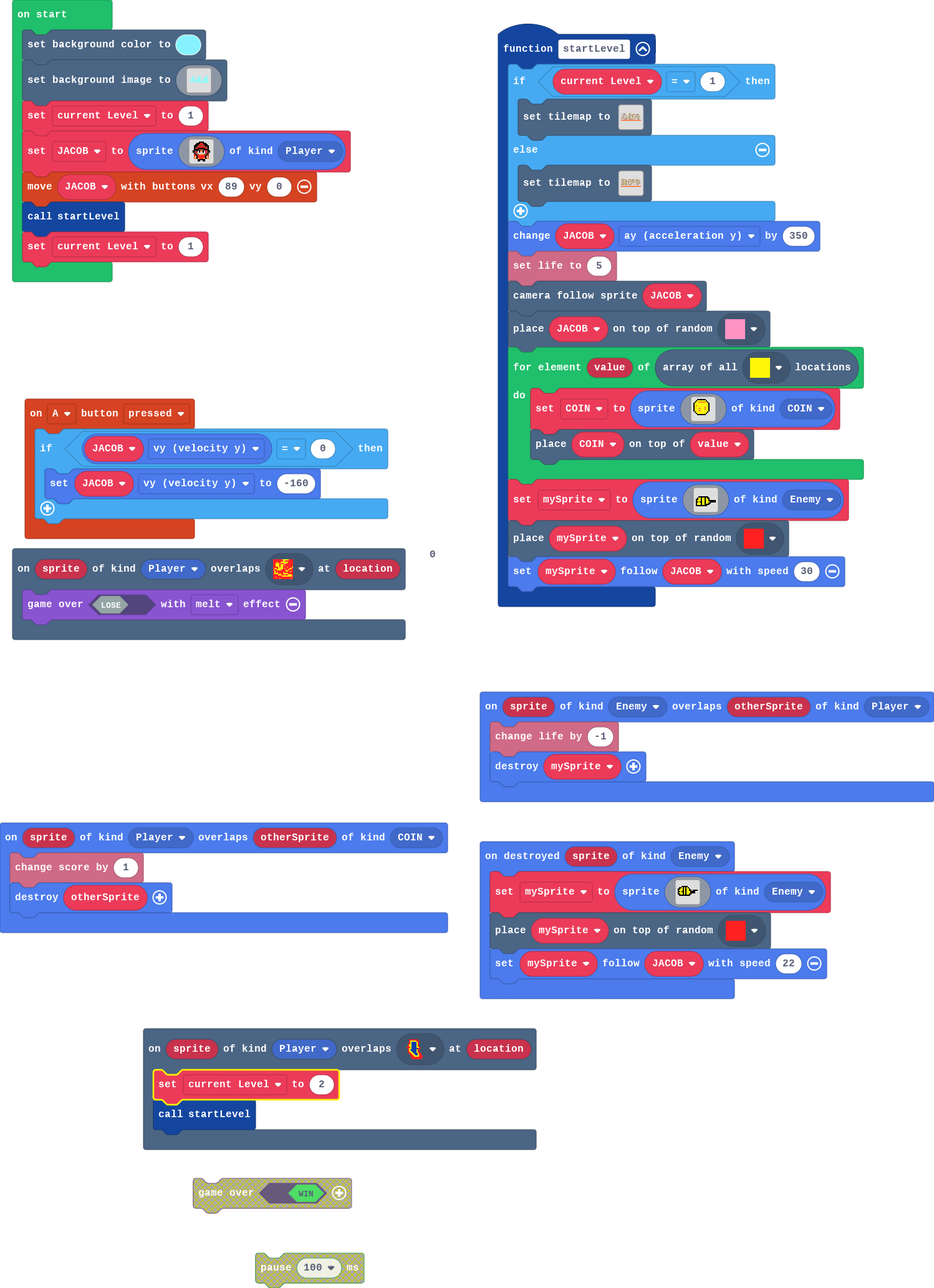
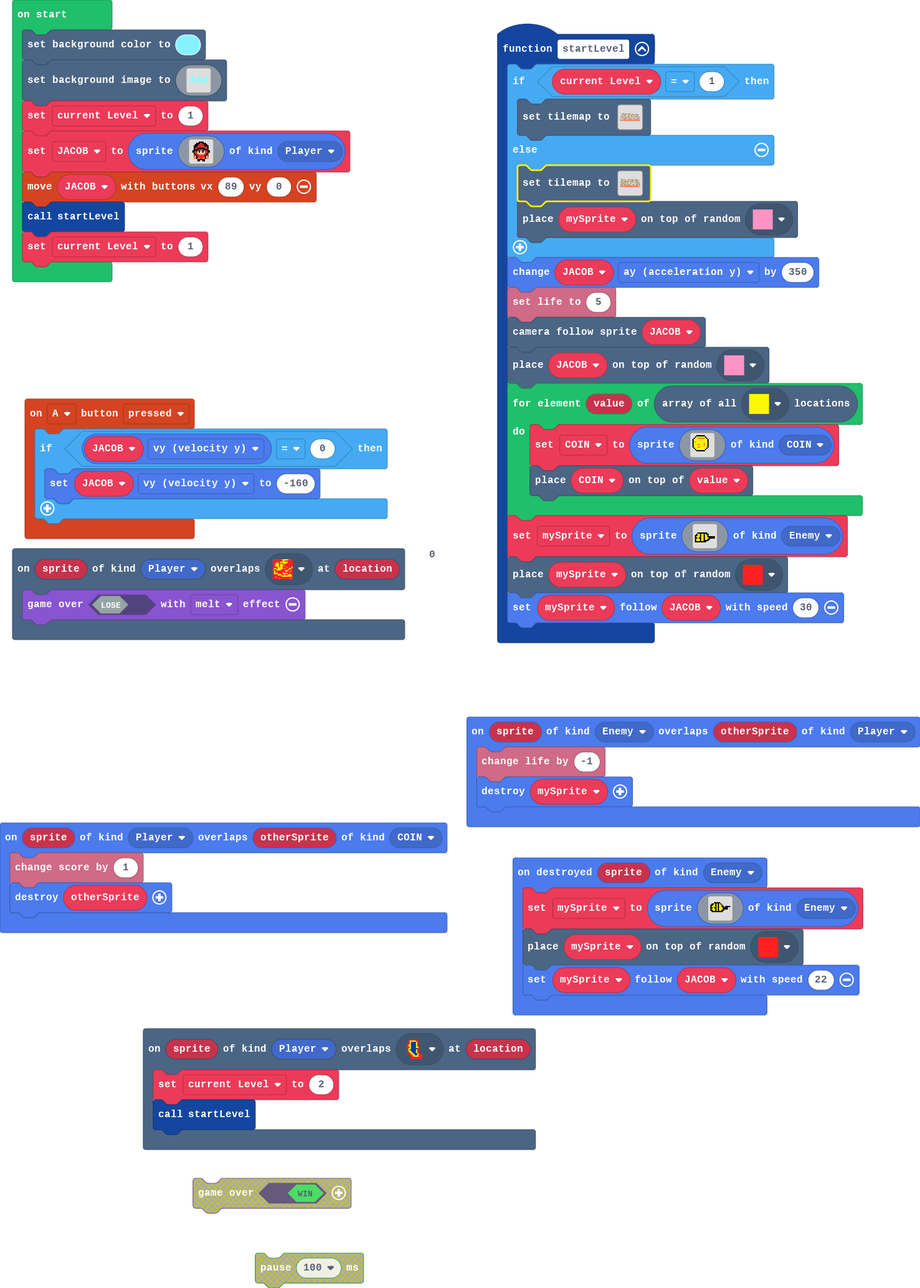
Update main.blocks, main.ts, tilemap.g.jres, tilemap.g.ts

diff --git a/main.ts b/main.ts
@@ -48,6 +48,7 @@ function startLevel () {
         tiles.setTilemap(tilemap`level4`)
     } else {
         tiles.setTilemap(tilemap`level 2`)
+        tiles.placeOnRandomTile(mySprite, assets.tile`myTile6`)
     }
     JACOB.ay += 350
     info.setLife(5)
@@ -118,72 +119,72 @@ scene.setBackgroundImage(img`
     ................................................................................................................................................................
     ................................................................................................................................................................
     ................................................................................................................................................................
+    .........................................................................................9......................................................................
+    .....................................9..................................................999................................................9.9999...............
+    ....................................99.................................................99999..............................................999...................
+    ....................................99..............................................999999999.............................................999999................
+    ..................................99999.............................................9999999999...........................................9999999................
+    ................................9999999............................................9999999999............................................9999999................
+    ..............................99999999999.........................................99999999999...........................................99999999................
+    .............................e.9999999999.......................................9999999999999..........................................9999999999...............
+    ............................9.999999999999.....................................9999999999999...........................................99999999999..............
+    ...........................9999999999999999...................................99999999999999..........................................999999999999..............
+    ..........................99999999999999999...................................99999999999999.........................................99999999999999.............
+    .........................9999999999999999999................................9999999999999999........................................9999999999999999............
+    ........................99.99999999999999999................................9999999999999999........................................9999999999999999............
+    ........................99999999999999999999................................9999999999999999.......................................999999999999999999...........
+    .......................99.999999999999999999...............................999999999999999999.....................................9999999999999999999...........
+    .......................9.999999999999999999................................9999999999999999.9....................................999999999999999999999..........
+    .........................9999999999999999999...............................9999999999999999999.................................99999999999999999999999..........
+    ........................999999999999999999999..............................9999999999999999999................................9999999999999999999999999.........
+    .......................9999999999999999999999............................9999999999999999999999..........................99..99999999999999999999999999.........
+    .......................99999999999999999999999..........................99999999999999999999999.........................9999999999999999999999999999999.........
+    .......................99999999999999999999999..........................99999999999999999999999........................999999999999999999999999999999999........
+    ......................999999999999999999999999.........................9999999999999999999999999.......................999999999999999999999999999999999........
+    ......................999999999999999999999999.........................9999999999999999999999999......................9999999999999999999999999999999999........
+    .....................9999999999999999999999999......................9.99999999999999999999999999.....................99999999999999999999999999999999999........
+    .....................99999999999999999999999999....................99999999999999999999999999999....................999999999999999999999999999999999999........
+    ....................999999999999999999999999999...................99999999999999999999999999999.9..................9999999999999999999999999999999999999........
+    ...................9999999999999999999999999999...................9999999999999999999999999999999..................9999999999999999999999999999999999999........
+    ..................99999999999999999999999999999...................9999999999999999999999999999999.................99999999999999999999999999999999999999........
+    .................999999999999999999999999999999..................99999999999999999999999999999999................999999999999999999999999999999999999999........
+    ................9999999999999999999999999999999................999999999999999999999999999999999.................999999999999999999999999999999999999999........
+    ...............99999999999999999999999999999999...............9999999999999999999999999999999999................9999999999999999999999999999999999999999........
+    ...............99999999999999999999999999999999..............99999999999999999999999999999999999................9999999999999999999999999999999999999999........
+    ...............99999999999999999999999999999999..............99999999999999999999999999999999999................999999999999999999999999999999999999999.........
+    ...............99999999999999999999999999999999..............99999999999999999999999999999999999...............99999999999999999999999999999999999999999........
+    ..............999999999999999999999999999999999.............99999999999999999999999999999999999................99999999999999999999999999999999999999999........
+    ..............9999999999999999999999999999999999...........999999999999999999999999999999999999...............999999999999999999999999999999999999999999........
+    ..............9999999999999999999999999999999999...........999999999999999999999999999999999999...............999999999999999999999999999999999999999999........
+    .............99999999999999999999999999999999999..........9999999999999999999999999999999999999...............999999999999999999999999999999999999999999........
+    .............99999999999999999999999999999999999.........99999999999999999999999999999999999999..............9999999999999999999999999999999999999999999........
+    ............999999999999999999999999999999999999........999999999999999999999999999999999999999..............99999999999999999999999999999999999999999999.......
+    ............999999999999999999999999999999999999.......9999999999999999999999999999999999999999..............99999999999999999999999999999999999999999999.......
+    ..........99999999999999999999999999999999999999......99999999999999999999999999999999999999999.............999999999999999999999999999999999999999999999.......
+    ..........99999999999999999999999999999999999999.......999999999999999999999999999999999999999..............9999999999999999999999999999999999999999999999......
+    .........999999999999999999999999999999999999999.......999999999999999999999999999999999999999.............99999999999999999999999999999999999999999999999......
+    .........999999999999999999999999999999999999999.......99999999999999999999999999999999999999999...........99999999999999999999999999999999999999999999999......
+    .........999999999999999999999999999999999999999......999999999999999999999999999999999999999999..........999999999999999999999999999999999999999999999999......
+    ........9999999999999999999999999999999999999999.....9999999999999999999999999999999999999999999..........999999999999999999999999999999999999999999999999......
+    .......999999999999999999999999999999999999999999....9999999999999999999999999999999999999999999..........999999999999999999999999999999999999999999999999......
+    ........99999999999999999999999999999999999999999...999999999999999999999999999999999999999999999........99999999999999999999999999999999999999999999999999.....
+    ........999999999999999999999999999999999999999999..9999999999999999999999999999999999999999999999......999999999999999999999999999999999999999999999999999.....
+    ........999999999999999999999999999999999999999999999999999999999999999999999999999999999999999999.....99999999999999999999999999999999999999999999999999999....
+    .......99999999999999999999999999999999999999999999999999999999999999999999999999999999999999999999....99999999999999999999999999999999999999999999999999999....
+    .........99999999999999999999999999999999999999999999999999999999999999999999999999999999999999999.9...999999999999999999999999999999999999999999999999999999...
+    .........9999999999999999999999999999999999999999999999999999999999999999999999999999999999999999999..9999999999999999999999999999999999999999999999999999999...
+    .................99999999999999999999999999999999999999999999999999999999999999999999999999999999999999999999999999999999999999999999999999999999999999999999...
+    ..............................99999......99999999999999999999999999999999999999999999999999999999999999999999999999999999999999999999999999999999999999999999...
+    ...................................................99999999999999999999999999999999999999999999999999999999999999999999999999999999999999999999999999999999999..
+    ....................................................................99999999999999999999999999999999999999999..99999999999999999999999999999999999999999999999..
+    .......................................................................99999999999......99999999999999..........9999999999999999999999999999999999999.99999999..
+    ..................................................................................................................999.99999999999999999999999999999.............
+    .........................................................................................................................9999...999999999.99999999..99999999....
+    ...............................................................................................................................999.................9............
     ................................................................................................................................................................
-    ...........................................................................................................................................9.9999...............
-    ........................................................................................999...............................................999...................
-    ....................................99.................................................999................................................999999................
-    ...................................9.9................................................9999.9.............................................9999999................
-    ...................................99.9............................................9999999999............................................9999999................
-    ..................................999999..........................................9.9999.99.............................................99999999................
-    .................................99.9999.........................................9999999.99............................................9999999999...............
-    .................................999999999......................................9.999999.99............................................99999999999..............
-    ................................9999999999.....................................9..999999999...........................................99.9999999.9..............
-    ...............................99999999999.....................................9.9999999999...........................................999999999.999.............
-    ..............................999999999999....................................9.9.9999999999.........................................99.999999999999............
-    .............................99999.9999999....................................9.999999999999........................................9999999999.99999............
-    .............................99999.99999999..................................9.9.99999.99999.......................................99999999999.999999...........
-    ............................999999999999999.................................9.9999999999999.9.....................................999999999999.999999...........
-    ...........................9999999999999999.................................9999999.9999999.9....................................9999999.9999999999999..........
-    ...........................9.999999999999999................................99.999999999999.9..................................99999999999999999999999..........
-    ..........................999999999999999999.................................99999999.9999.9.9................................9999999999999.99999999999.........
-    ........................9.999999999999999999................................9999999.99999999.9...............................9.999999999999999999999999.........
-    ........................99999999999999999999.............................9999999999999999999.9.............................99.9999999999999999999999999.........
-    .......................99999999999999999999.9............................9999999999999999999.9............................9.99999999999999999999999999.9........
-    .......................9999999999999999999999............................999999999999999999999..........................999.9999999999.999999999999999.9........
-    .......................9999999999999999999999...........................999999999999999999999.9........................9.99999999999999999999999999999.9........
-    ......................99999.99999999999999999.........................9999.999999999999999999.9.......................9.999999999999999999999999999999.9........
-    ......................99999999999999999999999........................999999999999999999999999.9......................9.9999999999999999999999999999999.9........
-    .....................9.9999999999999999999999......................99.99999999999999999999999.9.....................99.99999999999999.999999999999999999........
-    ...................99999999999999999999999999......................99999999999999999999999999.9.....................999999999999999999999999999999999999........
-    ...................9.999999999999999999999999.....................99999.99999999999999999999999....................9999999999999999999999999999999999999........
-    ..................99.999999999999999999999.99....................999999999999999999999999999999...................9999999999.999999999999999999999.99999........
-    ..................9999999999999999999999999999...................999999999.99999999999999999999...................99999999999999999.99999999999999999999........
-    .................99999999999999999999999999999..................9.99999999999999999999999999999..................999999999999999999999999999999999999999........
-    .................99999999999999999999999999999.................99.99999999999999999999999999999.................9.99999999999999999999999999999999999999........
-    ................999999999999999999999999999999................9.9999999999999999999999999999999.................9.9999999.99999999999999999999999999999.........
-    ................999999999999999999999999.99999...............999999.999999999999999999999999999................99999999999999999999999999999999999999999........
-    ...............9999999999999999999999999.99999...............9.99999999999999999999999999999999................999.9999999999999.99999999999999999999999........
-    ...............99999999999.99999999999999999999.............999999.9999999999999999999999999999................99.99999999999999999999999999999999999999........
-    ..............999999999999999999999999999999999.............99999999999999999999999999999999999...............999999999999999999999999999999999999999999........
-    ..............9.9999999999999999999999999999999............999999999999999999999999999999999999...............999999999999999999999999999999999999999999........
-    .............9999999.99999999999999999999999999...........9999999999999999999999999999999999999...............999999999999999999999999999999999999999999........
-    .............999999999999999.999999999999999999...........9999999999999999999999999999999999999..............99999999999999999999.99999999999999999999999.......
-    ............9999999999999999.999999999999999999...........999999999999999999999999999999999999...............999999999.9999999999999999999999999999999999.......
-    ..........999999999.9999999999999999999999999999.........9999999999999999999999999999999999999..............9.9999999999999999999999999999999999999999999.......
-    ..........99999999999999999999999999999999999999........99999999999999999999999999999999999999..............999999999999999999999999999999999999999999999.......
-    .........999999999.99999999999999999999999999999.......99999999.999999999999999999999999999999.............9999999999999999999999999999999999999999999999.......
-    .........999999999999999999999999999999999999999.......99999.99999999999999.99.999999999999999.............99999999999999999999999999999999999999999999999......
-    .........9999999.9999999999999999999999999999999......9.999999.999999999999999999999999.9999999...........9999999999999999999.9999999999999999999999999999......
-    ........9.99999999.9.999999999999999999999999999......9999999999999.99999.999999999999999999999...........999999999999999999999999999999999999.99999999999......
-    .......9999.99999999999.9999.9999999999999999999.....999999999999999999999999999999999999999999...........9999999999.99999999999999999999999999999999999.9......
-    .........9999999999999.9999999999999999999999999.....99999999999999999999999999999999999999999.9.........999999999999999999999999999999999999.9999999999999.....
-    .........99999999999999.9.99999999999999.99999999....99999999999999999999999999999999999999999.9.........999999.9999.99999999.99999999999999999999999999999.....
-    .........9999999999999.999999999999999999999999999.9.999999999..9.9.99999999999999999999999999..9.......9999999999999999999999999999999999999999999999999999....
-    .......9999999999999999999999999999999999999999999999999999999999999999999999999999999999999999.9......999999999.9999999999999999999999999999999999999999999....
-    ..........999..9999999999999999999999999999999999999.9999999999999999999999999999999999999999999.9.....999999999999999999999999999999999999999999999999999999...
-    .............99999999999999999999999999999999999999999999999999999999999999999999999999999999999..9...9999999999999999999999999999999999999999999999999999999...
-    ..................99999999999999.9999999999999999999999999999.9999999..99999999999999999999999999999..9999999.99999999999999999999999999999999999999999999999...
-    ..............................999999999999.9999999999999999999999999999999999999999999999999999999999999999999999..999999999999999999999999999999999999999999...
-    ....................................999999..9999999999..9.9999999999999999999999999999999999999999999999999999999999999999999999999999999999999999999999999999..
-    ..........................................99999999999...99..99999999999999999999999999999999999999999999999999999999999999999999999999999999999999999999999999..
-    ........................................................9...999999..999999999999999999999999999999999999..99999999999999999.999999999999.99999999999999.999999..
-    ..........................................................................9999999.9999999999999999999..999999999999999999999...999999999999999999999999999999...
-    ..................................................................................999..99999999999.............999999999999999.99999999999999999999.99999999.9..
-    ..................................................................................99999..9999999.................9999......9999999999999999999999999.999999999..
-    ................................................................................................................................9999999999999...9......9999999..
-    .......................................................................................................................................................9.99.99..
-    .......................................................................................................................................................9.99..9..
-    ........................................................................................................................................................999.....
+    ................................................................................................................................................................
+    ................................................................................................................................................................
+    ................................................................................................................................................................
     ................................................................................................................................................................
     ................................................................................................................................................................
     ................................................................................................................................................................

diff --git a/tilemap.g.ts b/tilemap.g.ts
@@ -81,43 +81,43 @@ namespace myTiles {
 . . . . . . . . . . . . . . . . 
 `, [myTiles.transparency16], TileScale.Sixteen);
             case "level4":
-            case "level4":return tiles.createTilemap(hex`2800100000000000000000000000000000000000000004000000000000000000000000000000000000000000050500000001010100000000000000000002020200000000040000000000000000000000000000000000000000000000000000000000000400000000000000000000070000000001000004000000000000000001010101010100000000000001010101000000020202020200000000010101010100000000000000000000000000000004000000000000000000000000000000000202000000000000000400000000000400000000010101010000000000040001010101000000000000000000000002020200000001000101000000000000000000000001010100000000000700000400000202000000000000000000000000000007000000000000040000000000040000000101010100000000000001010100000000060000000202020200000000020200000101010100000000000000000002020200000000000202000000000000000000000000040000000000000000000000000400000000040000000004000000000000000000000000000001010101010000000101010000010101000000000000000001010101000000000101010002020000000000000000040000000000000000000002020202000000000000000000000000000000000000020202020200000202000101010100000000000000000000000001010101000000000000000000000000000000000000000000000000020202000000000000000000000000000000000303030303030303030303030303030303030303030303030303030303030303030303030303030303030303030303030303030303030303030303030303030303030303030303030303030303030303`, img`
+            case "level4":return tiles.createTilemap(hex`2800100000000000000000000000000000000000000004000000000000000000000000000000000000000000050500000001010100000000000000000002020200000000040000000000000000000000000000000000000000000000000101010101000400000000000000000000070000000001000004000000000000000001010101010100000000000001010101000000020202020200000000010101010100000000000000000000000000000004000000000000000000000000000000000202000000000000000400000000000400000000010101010000000000040001010101000000000000000000000002020200000001000101000000000000000000000001010100000000000700000400000202000000000000000000000000000007000001010000040000000000040000000101010100000000000001010100000000060000000202020200000000020200000101010100000000000000000002020200000000000202000000000000000000000000040000000000000000000000000400000000040000000004000000000000000000000000000001010101010000000101010000010101000000000000000001010101000000000101010002020000000000000000040000000000000000000002020202000000000000000001010100000000000000020202020200000202000101010100000000000000000000000001010101000000000000000000000000000000000000000000000000020202000000000101010100000000000000000303030303030303030303030303030303030303030303030303030303030303030303030303030303030303030303030303030303030303030303030303030303030303030303030303030303030303`, img`
 ........................................
 .....222.........222....................
-...............................2........
+.........22222.................2........
 ...222222......2222...22222....22222....
 ............................22..........
 ........2222.......2222...........222...
 2.22...........222...........22.........
-......................2222......222.....
+........22............2222......222.....
 ...2222....22..2222.........222.....22.2
 ........................................
 ........22222...222..222........2222....
-222.22...................2222...........
+222.22...................2222........222
 .......22222..22.2222............2222...
-.....................222................
+.....................222....2222........
 ........................................
 ........................................
 `, [myTiles.transparency16,myTiles.tile4,myTiles.tile1,myTiles.tile5,myTiles.tile7,myTiles.tile9,myTiles.tile6,myTiles.tile8], TileScale.Sixteen);
             case "level 2":
-            case "level5":return tiles.createTilemap(hex`2800100000000500000000030000000000000000000003000000000000030000000001000000000000000000000101010001010101000000000000010101010100000101010100000000000101000300000000000000000003000000000005000300000000000000000000010101010000000101000001010100000000000101010100000001010101000003000000000503000000000003000000010101000000000000000000000003030000050000000101010100010101010101000001010100000000000300000100000000000001010100010101000000000000000000000100000003000000000000000101010100000000010101000000000000000100000101010000000000000101010100000100000300000000000002000000000000000300010101000000000000000000030000000000000000010101010000010100000001010001010101000003030000010100000001010101000000000000000000000000000000000000000000000003000001010100000000000000000000000000000300000000000101000101010000000300000501010100000000030001010000000300000000000101010000000000030000000000000101010101000000010101010100000001010101010000000000000000000001010101000000000000000000000000000000000000000000000000000000000000000000000000000000000000000000000000000000000000000000000000000000000000000000000000000000000000000000000000000404040404040404040404040404040404040404040404040404040404040404040404040404040404040404040404040404040404040404040404040404040404040404040404040404040404040404`, img`
+            case "level5":return tiles.createTilemap(hex`2800100006000500000000030000000000000000000003000000000000030000000001000000000000000000000001010001010101000000000000010101010100000101010100000000000101000300000000000000000003000000000005000300000000000000000000010101010000000101000001010100000000000101010100000001010101000003000000000503000000000003000000010101000000000000000000000003030000050000000101010100010101010101000001010100000000000300000000000000000001010100010101000000000000000000000100000003000000000000000101010100000000010101000000000000000100000101010000000000000101010100000100000300000000000002000000000000000300010101000000000000000000030000000000000000010101010000010100000001010001010101000003030000010100000001010101000000000000000000000000000000000000000000000003000001010100000000000000000000000000000300000000000101000101010001000300000501010100000000030001010000000300000000000101010000000000030000000000000001010101000000010101010100000001010101010000000000000000000001010101000101010100000000000000000000000000000000000000000000000000010101000000000000000000000000010101010100000001010100000101010101000001010101000000000000000101010100000000000404040404040404040404040404040404040404040404040404040404040404040404040404040404040404040404040404040404040404040404040404040404040404040404040404040404040404`, img`
 ..............................2.........
-.222.2222......22222..2222.....22.......
+..22.2222......22222..2222.....22.......
 .......................2222...22..222...
 ..2222...2222..................222......
-.............2222.222222..222........2..
+.............2222.222222..222...........
 ....222.222..........2...........2222...
 .222.......2..222......2222..2..........
 .........222..................2222..22.2
 .22.2222......22...2222.................
-.........222....................22.222..
+.........222....................22.222.2
 .....222......22.........222............
-22222...22222...22222..........2222.....
+.2222...22222...22222..........2222.2222
+.........................222............
+22222...222..22222..2222.......2222.....
 ........................................
 ........................................
-........................................
-........................................
-`, [myTiles.transparency16,myTiles.tile4,myTiles.tile6,myTiles.tile7,myTiles.tile5,myTiles.tile8], TileScale.Sixteen);
+`, [myTiles.transparency16,myTiles.tile4,myTiles.tile6,myTiles.tile7,myTiles.tile5,myTiles.tile8,myTiles.tile9], TileScale.Sixteen);
         }
         return null;
     })
